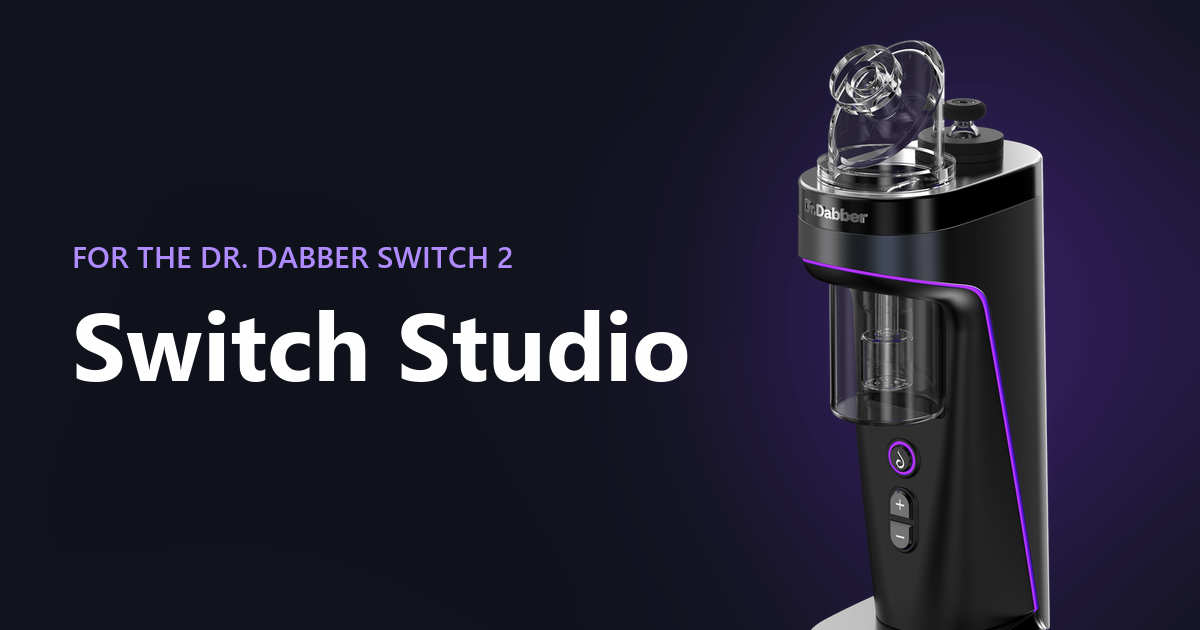
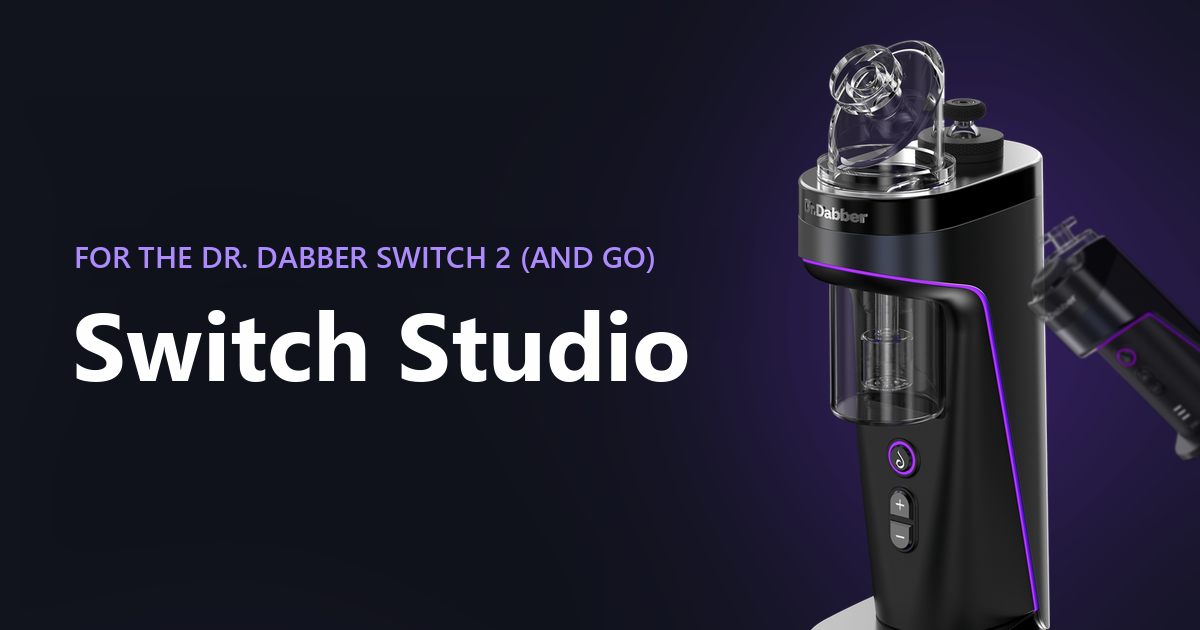
Link preview: label says Switch 2 (and GO), a small Switch GO beside the Switch 2

Changed region(s): [[0.8633, 0.3317, 1.0, 0.7238], [0.2775, 0.3921, 0.555, 0.4222], [0.0617, 0.3921, 0.2158, 0.4222]]

diff --git a/index.html b/index.html
@@ -13,15 +13,15 @@
 <title>Switch Studio for Dr. Dabber Switch 2</title>
 <meta property="og:type" content="website">
 <meta property="og:site_name" content="Switch Studio">
-<meta property="og:title" content="Switch Studio for Dr. Dabber Switch 2">
+<meta property="og:title" content="Switch Studio for Dr. Dabber Switch 2 (and GO)">
 <meta property="og:url" content="https://akxmkassa.github.io/switch-studio/">
-<meta property="og:image" content="https://akxmkassa.github.io/switch-studio/og.png?v=2">
+<meta property="og:image" content="https://akxmkassa.github.io/switch-studio/og.png?v=3">
 <meta property="og:image:width" content="1200">
 <meta property="og:image:height" content="630">
-<meta property="og:image:alt" content="Switch Studio with a Dr. Dabber Switch 2">
+<meta property="og:image:alt" content="Switch Studio with a Dr. Dabber Switch 2 and a Switch GO">
 <meta name="twitter:card" content="summary_large_image">
-<meta name="twitter:title" content="Switch Studio for Dr. Dabber Switch 2">
-<meta name="twitter:image" content="https://akxmkassa.github.io/switch-studio/og.png?v=2">
+<meta name="twitter:title" content="Switch Studio for Dr. Dabber Switch 2 (and GO)">
+<meta name="twitter:image" content="https://akxmkassa.github.io/switch-studio/og.png?v=3">
 <link rel="manifest" href="manifest.webmanifest">
 <link rel="apple-touch-icon" href="icons/apple-touch-icon-180.png">
 <link rel="icon" type="image/png" sizes="192x192" href="icons/icon-192.png">
